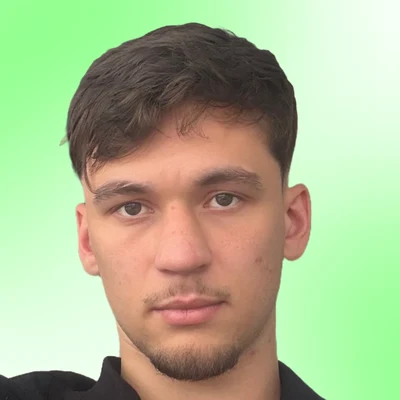
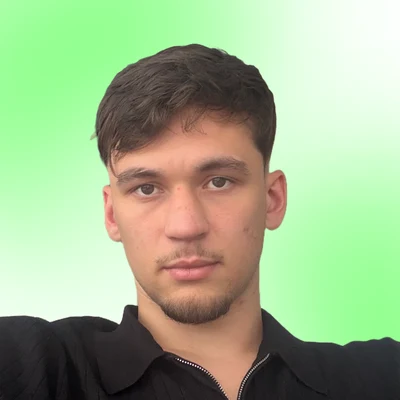
Repoziționează butonul WhatsApp jos pe mijloc, poză mai puțin cadrată
Mutat din dreapta-mijloc în jos-mijloc, pe orice lățime de ecran — inclusiv
mobil, unde acum rămâne pilula completă (poză + nume + text), nu doar
avatarul restrâns. Poza lui Victor e re-cadrată mai larg (mai puțin
"zoomed in"), cu umerii vizibili.

Claude-Session: https://claude.ai/code/session_01QogZXQDcqCrbnbSvu6gog9

diff --git a/css/style.css b/css/style.css
@@ -1299,9 +1299,9 @@ button { font: inherit; }
 /* ── WhatsApp sticky ───────────────────────────────────────────── */
 .wa-sticky {
   position: fixed;
-  top: 50%;
-  right: clamp(0.75rem, 2vw, 1.5rem);
-  transform: translateY(-50%);
+  left: 50%;
+  bottom: clamp(0.75rem, 2vw, 1.5rem);
+  transform: translateX(-50%);
   z-index: 80;
   display: flex;
   align-items: center;
@@ -1316,7 +1316,7 @@ button { font: inherit; }
 }
 
 .wa-sticky:hover {
-  transform: translateY(-50%) translateX(-4px);
+  transform: translateX(-50%) translateY(-4px);
   box-shadow: 0 20px 40px -14px var(--green-soft);
 }
 
@@ -1351,36 +1351,13 @@ button { font: inherit; }
   color: var(--ink);
 }
 
-@media (max-width: 640px) {
-  .wa-sticky {
-    position: fixed;
-    padding: 0;
-    gap: 0;
-    box-shadow: none;
-    background: none;
-  }
-
-  .wa-sticky__avatar {
-    width: 54px;
-    height: 54px;
-    box-shadow: 0 10px 26px -12px rgba(0, 0, 0, 0.45);
-  }
-
-  .wa-sticky__text { display: none; }
-
-  .wa-sticky__icon {
-    display: flex;
-    position: absolute;
-    right: -4px;
-    bottom: -4px;
-    width: 26px;
-    height: 26px;
-    background: var(--green);
-    color: var(--ink);
-    border: 2px solid #fff;
-  }
-
-  .wa-sticky__icon svg { width: 13px; height: 13px; }
+@media (max-width: 400px) {
+  .wa-sticky { gap: 0.55rem; padding: 0.4rem 0.9rem 0.4rem 0.4rem; }
+  .wa-sticky__avatar { width: 44px; height: 44px; }
+  .wa-sticky__text { font-size: 0.78rem; }
+  .wa-sticky__text strong { font-size: 0.9rem; }
+  .wa-sticky__icon { width: 28px; height: 28px; }
+  .wa-sticky__icon svg { width: 15px; height: 15px; }
 }
 
 /* ── Popup cookies ─────────────────────────────────────────────── */

diff --git a/README.md b/README.md
@@ -92,10 +92,9 @@ Dacă serviciul nu răspunde, vizitatorul primește automat linkuri precompletat
 
 ## Butonul WhatsApp sticky
 
-Elementul `.wa-sticky` din `index.html` (poza + numele lui Victor Prodan) e fixat pe
-partea dreaptă, pe mijlocul ecranului, vizibil tot timpul cât utilizatorul dă scroll.
-Pe mobil (≤640px) se restrânge la doar avatarul, cu un mic badge WhatsApp suprapus.
-Deschide WhatsApp la +40 728 541 017 cu mesaj precompletat — schimbă numărul, poza
+Elementul `.wa-sticky` din `index.html` (poza + numele lui Victor Prodan) e fixat jos,
+pe mijlocul ecranului, vizibil tot timpul cât utilizatorul dă scroll — pe orice
+dispozitiv, inclusiv mobil. Deschide WhatsApp la +40 728 541 017 cu mesaj precompletat — schimbă numărul, poza
 (`assets/victor-avatar.webp`), numele sau mesajul direct în `index.html`.
 
 ## De completat ulterior
